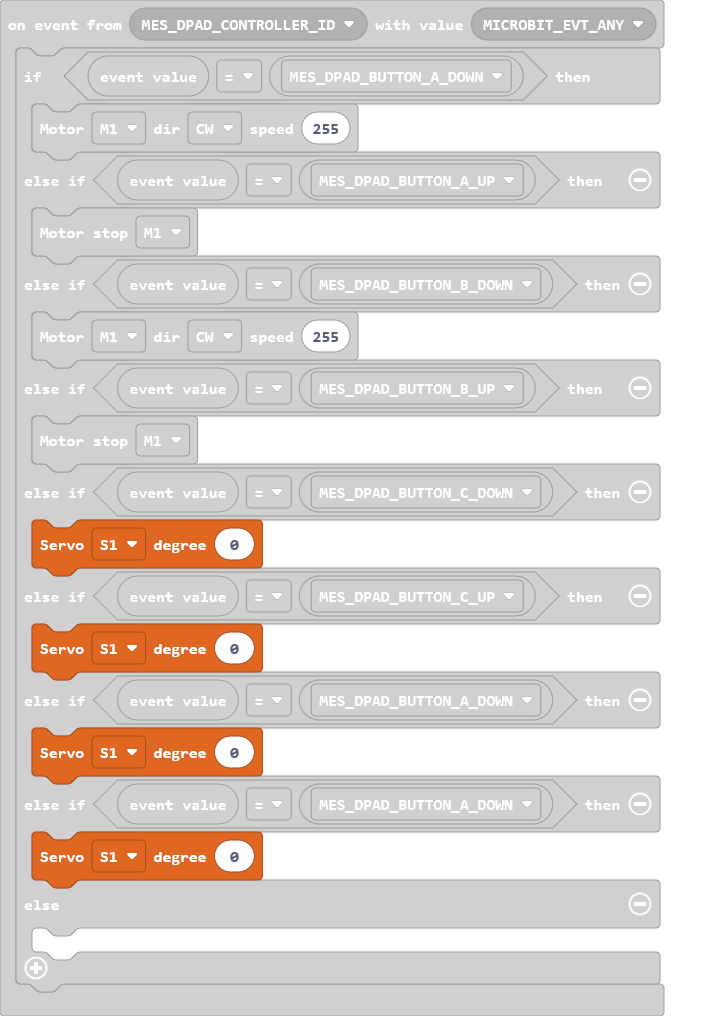
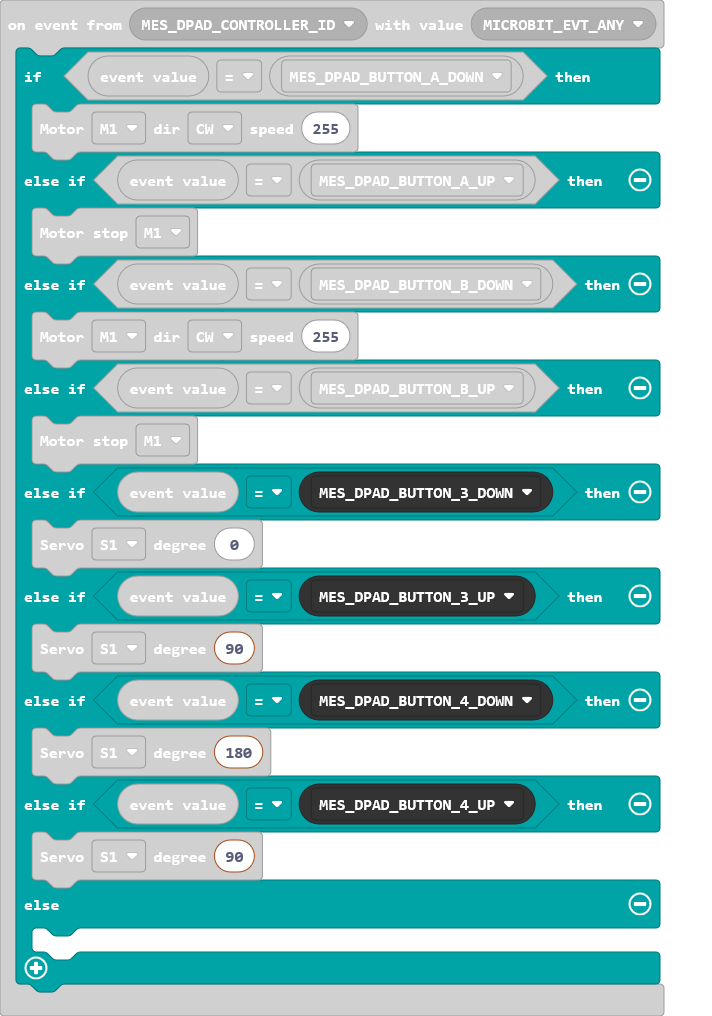
Update main.blocks, main.ts

diff --git a/main.ts b/main.ts
@@ -99,14 +99,14 @@ control.onEvent(EventBusSource.MES_DPAD_CONTROLLER_ID, EventBusValue.MICROBIT_EV
         motor.MotorRun(motor.Motors.M1, motor.Dir.CW, 255)
     } else if (control.eventValue() == EventBusValue.MES_DPAD_BUTTON_B_UP) {
         motor.motorStop(motor.Motors.M1)
-    } else if (control.eventValue() == EventBusValue.MES_DPAD_BUTTON_C_DOWN) {
+    } else if (control.eventValue() == EventBusValue.MES_DPAD_BUTTON_3_DOWN) {
         motor.servo(motor.Servos.S1, 0)
-    } else if (control.eventValue() == EventBusValue.MES_DPAD_BUTTON_C_UP) {
-        motor.servo(motor.Servos.S1, 0)
-    } else if (control.eventValue() == EventBusValue.MES_DPAD_BUTTON_A_DOWN) {
-        motor.servo(motor.Servos.S1, 0)
-    } else if (control.eventValue() == EventBusValue.MES_DPAD_BUTTON_A_DOWN) {
-        motor.servo(motor.Servos.S1, 0)
+    } else if (control.eventValue() == EventBusValue.MES_DPAD_BUTTON_3_UP) {
+        motor.servo(motor.Servos.S1, 90)
+    } else if (control.eventValue() == EventBusValue.MES_DPAD_BUTTON_4_DOWN) {
+        motor.servo(motor.Servos.S1, 180)
+    } else if (control.eventValue() == EventBusValue.MES_DPAD_BUTTON_4_UP) {
+        motor.servo(motor.Servos.S1, 90)
     } else {
     	
     }
